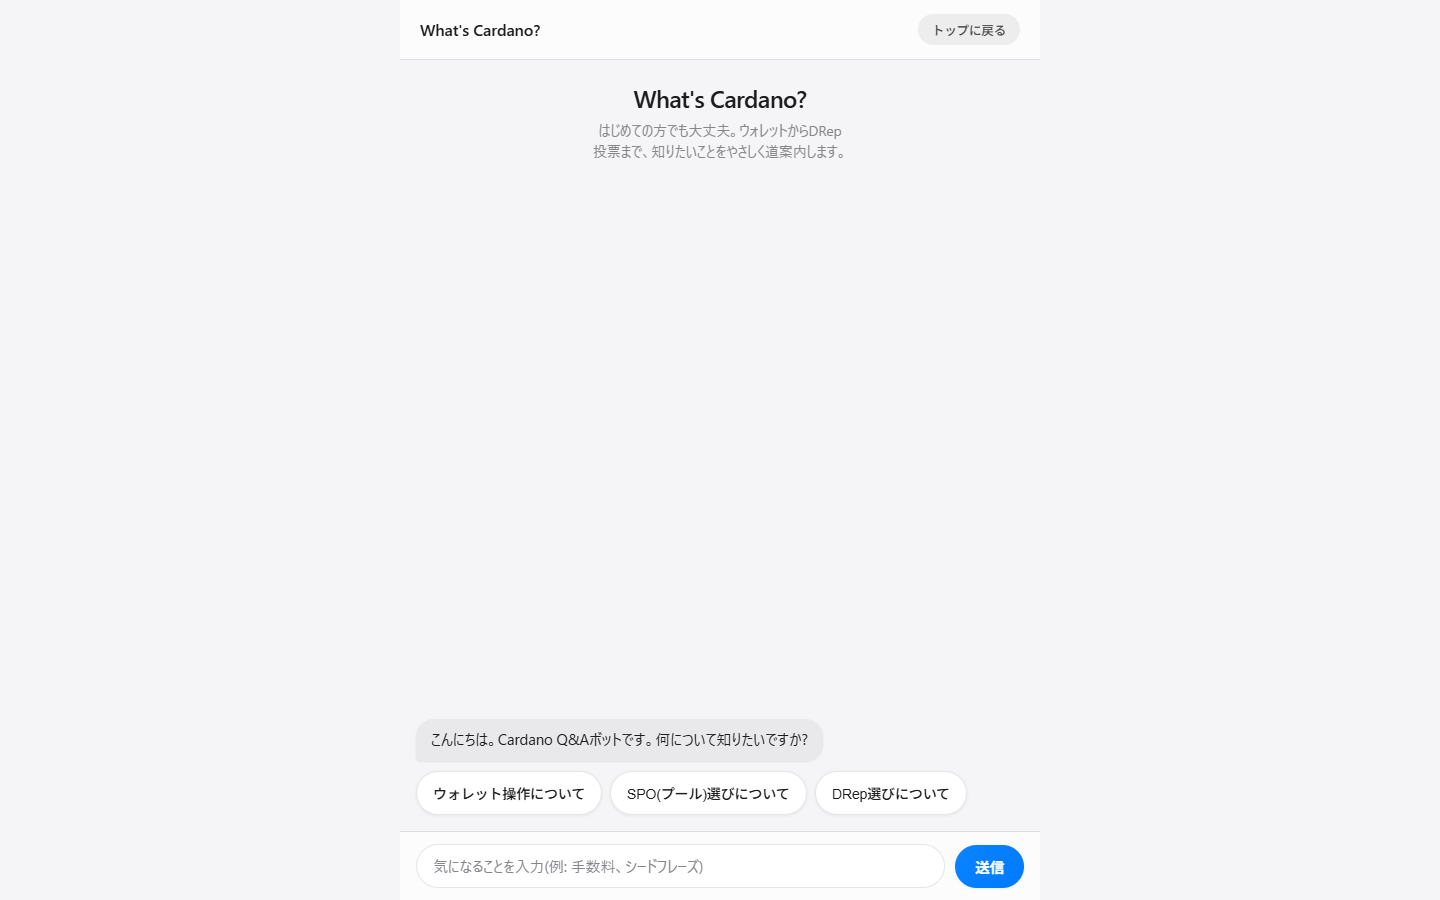
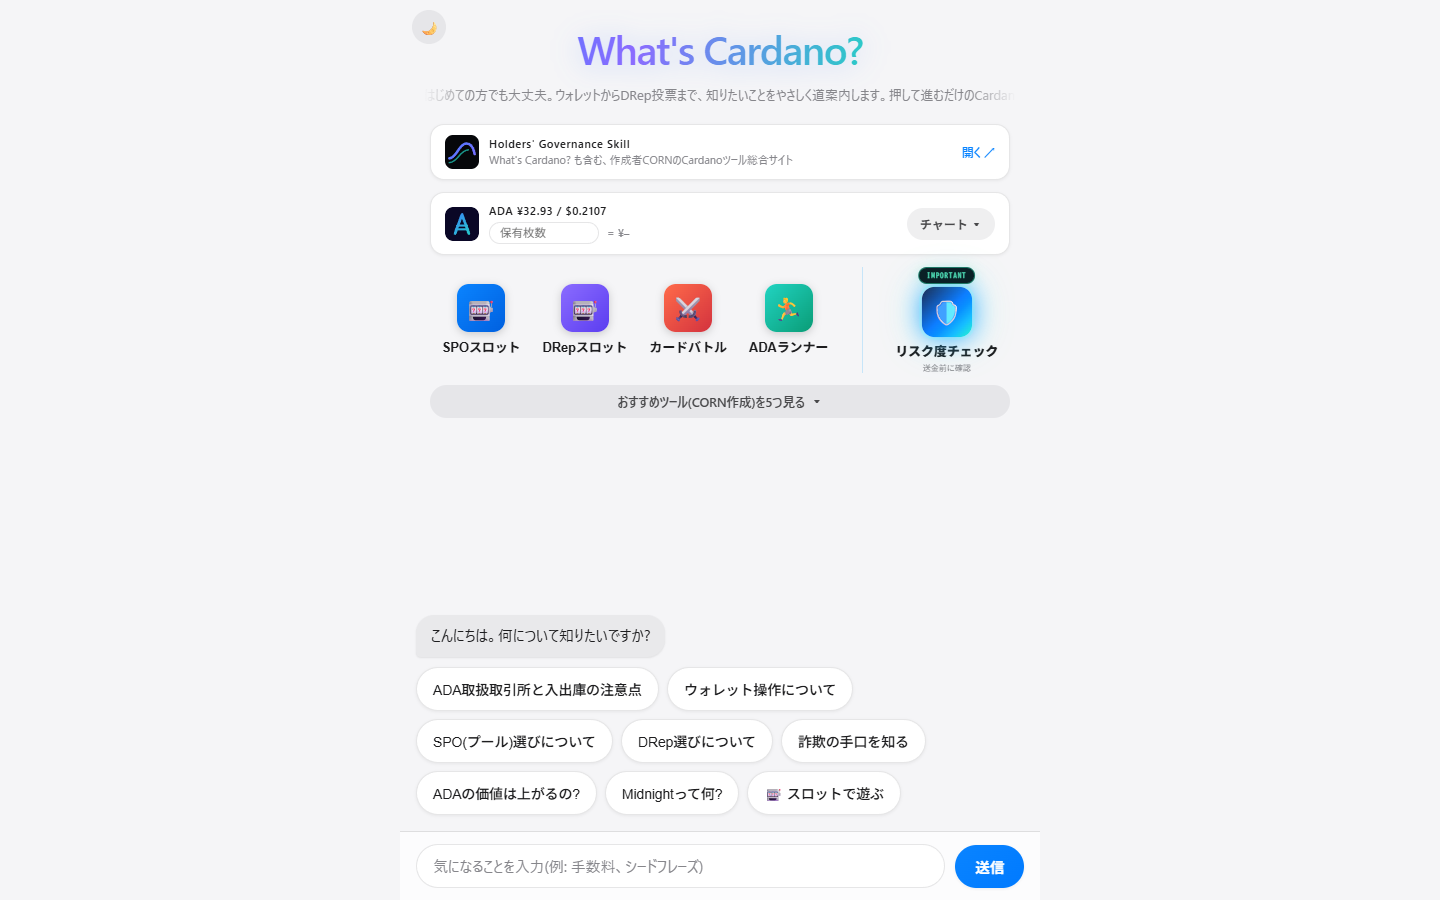
Refresh the What's Cardano? card to match the current bot
The bot grew from 3 topics / 74 answers to 8 topics / 129 answers,
and the home screen now carries the ADA price panel, the game row
and the pre-transfer risk check. Update the shot and both copies of
the description (card and dock) to say what is actually there.

diff --git a/index.html b/index.html
@@ -1018,12 +1018,12 @@ footer a:hover{color:var(--ink)}
             <span class="en">First questions, answered in conversation.</span>
           </h3>
           <p>
-            <span class="ja">ウォレット・プール選び・DRep選びをボタンで辿れるQ&amp;Aボット。リレー健全性ランキングとTarget 15の思想から、集中を避けたおすすめも提示する。</span>
-            <span class="en">A tap-through Q&amp;A bot for wallets, pool choice and DRep choice — with recommendations drawn from the relay-health ranking and the Target 15 principle.</span>
+            <span class="ja">ウォレット、取引所の入出庫、プール選び、DRep選び、詐欺の手口、ADAの価値、Midnight。8つのテーマをボタンで辿れるQ&amp;Aボット。リレー健全性ランキングとTarget 15の思想から集中を避けたおすすめを出し、送金前のリスク度チェックも備える。</span>
+            <span class="en">A tap-through Q&amp;A bot across eight topics — wallets, exchange deposits and withdrawals, pool and DRep choice, scam patterns, ADA's value, Midnight. Recommendations are drawn from the relay-health ranking and the Target 15 principle, and a pre-transfer risk check is built in.</span>
           </p>
           <div class="spec">
-            <div><span class="k">Topics</span><span class="v">3</span></div>
-            <div><span class="k">Answers</span><span class="v">74</span></div>
+            <div><span class="k">Topics</span><span class="v">8</span></div>
+            <div><span class="k">Answers</span><span class="v">129</span></div>
             <div><span class="k">AI API</span><span class="v">0</span></div>
           </div>
           <a class="pill" href="https://hfot.github.io/cardano-qa-bot/" target="_blank" rel="noopener">
@@ -1450,9 +1450,9 @@ footer a:hover{color:var(--ink)}
     { id:'qa', icon:'icons/qa.svg', kind:"What's Cardano?",
       href:'https://hfot.github.io/cardano-qa-bot/',
       ja:['はじめての疑問に、会話で答える。',
-          'ウォレット・プール選び・DRep選びをボタンで辿れるQ&Aボット。リレー健全性ランキングとTarget 15の思想から、集中を避けたおすすめも提示する。'],
+          'ウォレット、取引所の入出庫、プール選び、DRep選び、詐欺の手口、ADAの価値、Midnight。8つのテーマをボタンで辿れるQ&Aボット。リレー健全性ランキングとTarget 15の思想から集中を避けたおすすめを出し、送金前のリスク度チェックも備える。'],
       en:['First questions, answered in conversation.',
-          'A tap-through Q&A bot for wallets, pool choice and DRep choice — with recommendations drawn from the relay-health ranking and the Target 15 principle.'] },
+          'A tap-through Q&A bot across eight topics — wallets, exchange deposits and withdrawals, pool and DRep choice, scam patterns, ADA\'s value, Midnight. Recommendations are drawn from the relay-health ranking and the Target 15 principle, and a pre-transfer risk check is built in.'] },
     { id:'drep', icon:'icons/drep.svg', kind:'DRep Governance Terminal',
       href:'https://hfot.github.io/drep-terminal-v6/',
       ja:['DRep の力の偏りを、数字で読む。',
